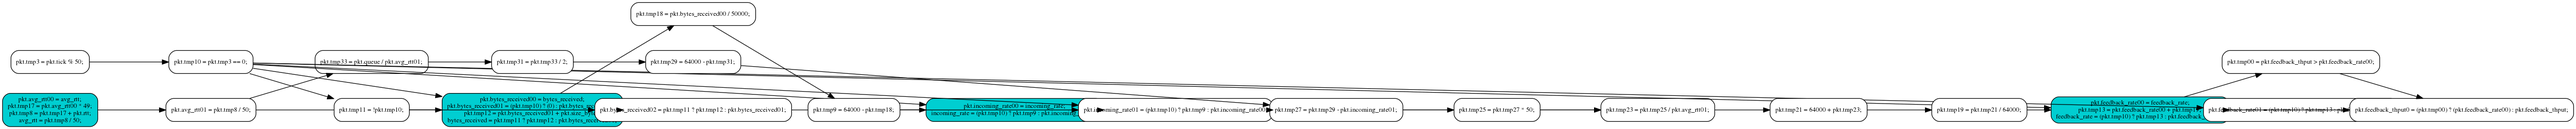
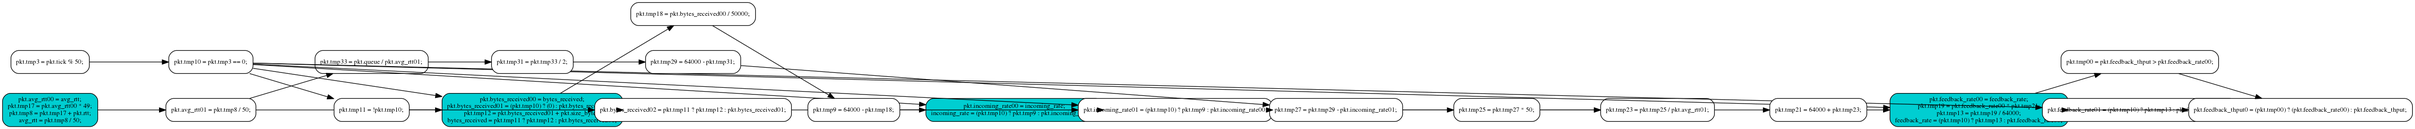
.

diff --git a/domino_programs/rcp0-queue.c b/domino_programs/rcp0-queue.c
@@ -33,7 +33,7 @@ void func(struct Packet pkt) {
   if (pkt.tick % T == 0) {
     incoming_rate = C - bytes_received/A;
     bytes_received = 0;
-    feedback_rate += (C + (((C - \
+    feedback_rate *= (C + (((C - \
       ((pkt.queue/avg_rtt)/2) - \
       incoming_rate) * T)/avg_rtt))/C;
   }
